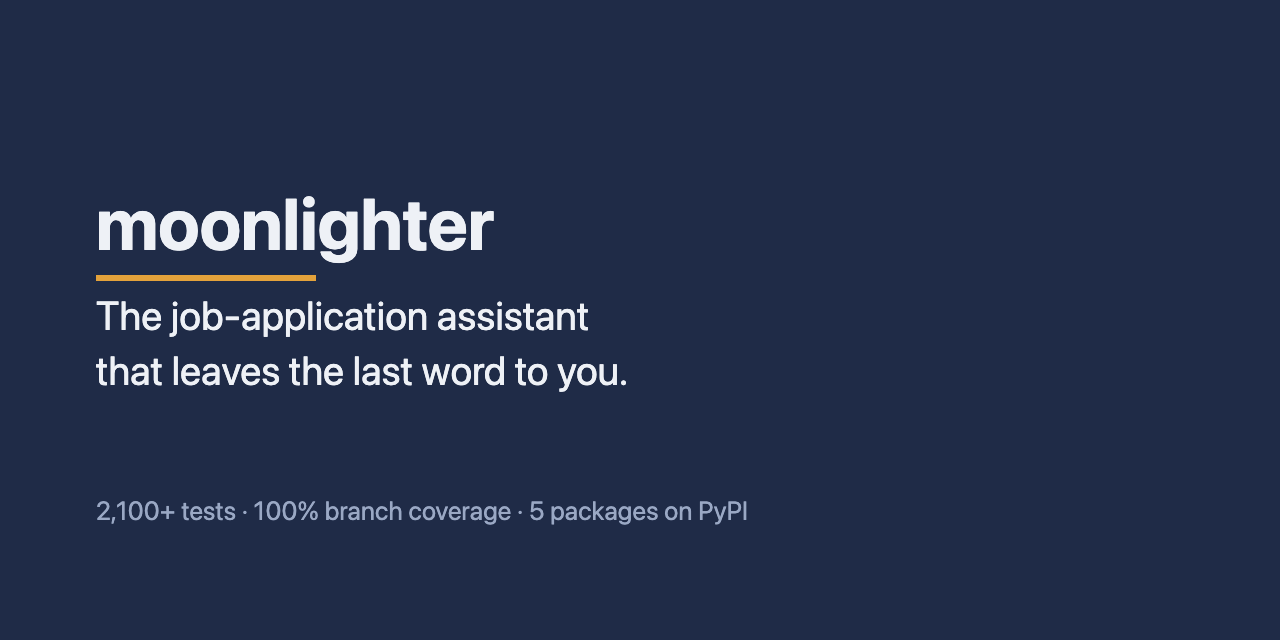
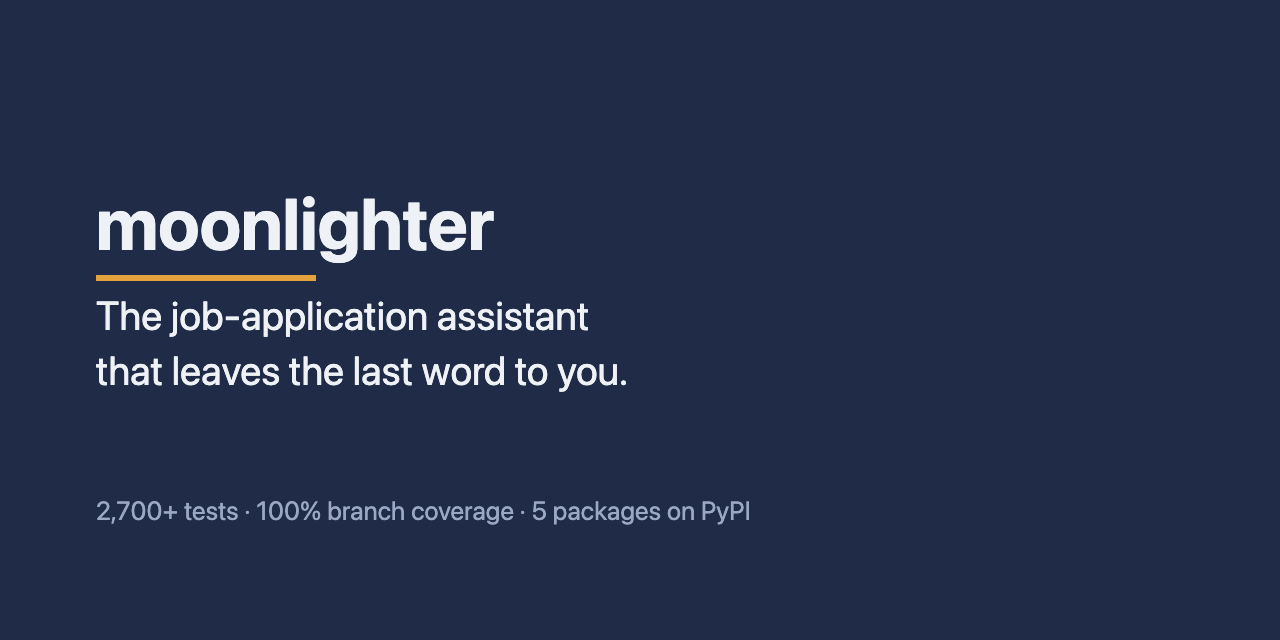
docs: describe the new gates, bump the proof line to 2,700+ tests
CLAUDE.md, CONTRIBUTING.md and both engineering pages name the file-length
and complexity gates, Ruff selecting ALL and every mypy target (twelve
packages plus scripts/). CLAUDE.md also names the real playwright test
directory and makes the peewee sentence true (stubs vendored since 4.1.1,
checked by installing 4.1.0 and 4.1.1; get_or_create is Model's own).
The real count is 2716, so the six fact blocks move from 2,100+ to 2,700+
and social-preview.png is re-rendered from the SVG with headless Chrome
at 1280x640 (it reproduces the committed PNG byte for byte on the old SVG).

Claude-Session: https://claude.ai/code/session_01FTYhxnWRnUkGu6eDAmn1hf

Changed region(s): [[0.0938, 0.7812, 0.5938, 0.8125]]

diff --git a/CLAUDE.md b/CLAUDE.md
@@ -16,10 +16,12 @@ Outside `packages/`: `guide/en|pt` (docs site source) · `scripts/` (CI checks, 
 
 - Full suite: `uv run pytest -q` — the only green that counts; the 100% coverage gate needs the whole tree, so ANY subset run ends in `FAIL Required test coverage of 100% not reached`. That's an artifact of partial runs, not a regression: read the `N passed` line, then run the full suite before claiming green.
 - `tests/performance/` compares timings within one run instead of asserting seconds (concurrent scan vs the same scan one slug at a time, ratio 0.5), and counts SQL queries for the database cases. Until 2026-11-02 it asserted absolute limits that went red at load average ~30 (green at ~5); a ratio survives load, a wall-clock limit does not. Each scanner test also asserts `errors == 0` from `stats`, because a mock the scanner never calls makes every fetch fail quickly and the timing still passes (the Ashby test mocked `post` while the scanner uses GET). If a test there still goes red, check `uptime` first, then re-run once the load drops.
-- After touching the lock: `uv sync --all-packages --all-extras`, the way `ci.yml` does. A plain `uv sync` prunes the `browser` extra, and `tests/core/test_browser.py` then dies with `ModuleNotFoundError: playwright` during collection — an incomplete install, not a regression.
+- After touching the lock: `uv sync --all-packages --all-extras`, the way `ci.yml` does. A plain `uv sync` prunes the `browser` extra, and `tests/core/browser/` (`conftest.py`, `test_connect.py`, `test_close_and_detach.py`) then dies with `ModuleNotFoundError: playwright` during collection — an incomplete install, not a regression.
 - e2e tests are deselected by default (`addopts` carries `-m 'not e2e'`); run them with `uv run pytest -m e2e` — on `main` they need `pdflatex` and the network (live ATS form checks in `tests/application/assisted/test_live_sources.py`; browser e2e live on `feat/ats-automation`). A skipped e2e counts as a FAILURE (`tests/_e2e_guard.py`).
 - Try a tool version before merging its Dependabot PR: `uvx ruff@0.16.3 format --check packages tests`.
-- Lint: `uv run ruff check .` · Format: `uv run ruff format --check .`
+- Lint: `uv run ruff check .` · Format: `uv run ruff format --check .` — Ruff selects ALL (cyclomatic `C901` <= 6 included), so a `# noqa` names its code and a reason (`# noqa: CODE - reason`) and a per-file ignore in `pyproject.toml` carries a one-line reason above it.
+- File length gate: `uv run python scripts/check_file_length.py` — no module over 200 lines (`limit`) and none over 250 (`ceiling`, justified or not). The only exceptions live in `[tool.moonlighter.file-length.justified]`, each with a reason; an entry for a file that is gone or back under the limit fails too. Runs in the CI `test` job right after Ruff.
+- Cognitive complexity gate: `uv run complexipy packages scripts tests --max-complexity-allowed 10` from the repo root (the paths are relative to the cwd) — no function over 10. The limit lives in `[tool.complexipy]` and CI repeats it as the flag, so the two must agree. Same CI step group as the length gate.
 - Types (mirror of ci.yml): `uv run mypy --package moonlighter.core --package moonlighter.discovery --package moonlighter.application --package moonlighter.tracking --package moonlighter.server --package moonlighter.app_context --package moonlighter.mcp_tools --package moonlighter.priority --package moonlighter.startup --package moonlighter.views --package moonlighter._tool_logging --package moonlighter.init` — always `--package`, never file paths (paths duplicate module resolution in namespace packages). `scripts/` is not a package and gets its own line, `uv run mypy scripts/` — `ci.yml` runs both.
 - Docs site: `bash scripts/build_docs.sh` builds `guide/en` + `guide/pt` into `site/` (Zensical, one build per language, then assembled — building both into one `site_dir` wipes a language). Preview one language live: `uv run --group docs zensical serve -f zensical.en.yml`. `--stamp` is CI-only (edits the working copy, refuses a shallow clone).
 - README facts: `uv run pytest -q --junitxml=test-report.xml && uv run python scripts/check_readme_facts.py --junit test-report.xml` — fails when a written number is false or stale by more than 200 tests; update the facts blocks (both READMEs, both site homes, llms.txt) and `assets/site/social-preview.svg` + its PNG together.
@@ -35,7 +37,7 @@ Outside `packages/`: `guide/en|pt` (docs site source) · `scripts/` (CI checks, 
 
 `uv run python -c "from moonlighter.core.db import init_db, Job, Application; init_db(); ..."` — peewee models against the DB under `MOONLIGHTER_HOME` (default `~/.moonlighter`).
 
-Peewee's metaclass-injected attrs (`.id`, `.DoesNotExist`, `.get_or_create`) are declared once on `BaseModel` in `core/db.py`. peewee ships stubs since 4.2, so mypy sees a real class and these stopped being implicit — fix at that shared base, never with per-call-site `type: ignore`.
+Peewee's metaclass-injected attrs (`.id`, `.DoesNotExist`, `.get_or_create`) are declared once on `BaseModel` in `core/db.py`. `get_or_create` is peewee `Model`'s own classmethod (the stubs declare it untyped); `.id` and `.DoesNotExist` are synthesized by its metaclass. peewee has vendored stubs since 4.1.1 (the lock has 4.5.3), so mypy sees a real class and these stopped being implicit — fix at that shared base, never with per-call-site `type: ignore`.
 
 ## Docs
 

diff --git a/guide/pt/engineering.md b/guide/pt/engineering.md
@@ -58,7 +58,8 @@ Um [workspace uv](https://docs.astral.sh/uv/concepts/workspaces/) com 5 namespac
 ## Gates de qualidade
 
 - **Suíte de testes com 100% de cobertura de branches** — o número atual de testes está na [linha de prova do README](https://github.com/albertosca/moonlighter/blob/main/README.pt.md), conferida pelo CI; a cobertura é imposta como gate de CI (`--cov-fail-under=100`), não é número de dashboard.
-- **mypy strict** nos nove módulos `moonlighter.*` (os alvos `--package` do mypy); **ruff** com o ruleset de segurança (`S`) ligado.
+- **mypy strict** em todos os módulos `moonlighter.*` (os alvos `--package` no CI) e em `scripts/`; **ruff** com todas as famílias de regras selecionadas (`select = ["ALL"]`), cada exceção listada no `pyproject.toml` com o seu motivo.
+- **Módulos pequenos, funções simples** — nenhum módulo com mais de 200 linhas sem um motivo registrado, e nenhum com mais de 250; nenhuma função com complexidade cognitiva acima de 10. Os dois são gates de CI, e cada um foi provado reprovando um arquivo propositalmente grande ou emaranhado antes de entrar.
 - **Releases em lockstep** — os cinco pacotes precisam concordar em versão, pins e tag antes de qualquer upload; a checagem roda antes do build, porque upload no PyPI é irreversível.
 - **main protegida** — toda mudança entra por pull request, com o CLA, a suíte de testes e uma auditoria de segurança como checks obrigatórios.
 - **Rascunhado do seu perfil, lacunas sinalizadas** — as respostas são rascunhadas a partir do seu perfil, e o modelo é instruído a responder UNKNOWN quando o seu perfil não lhe dá base; isso volta para você como uma lacuna. Alguns campos são decididos em código, não pelo modelo: um salário cujas unidades não batem com a pretensão configurada, ou uma pergunta de autorização de trabalho cujo país não dá para inferir, sempre volta para você como lacuna. O modelo ainda pode errar uma resposta, e é por isso que você revisa toda folha.

diff --git a/guide/en/engineering.md b/guide/en/engineering.md
@@ -58,7 +58,8 @@ A [uv workspace](https://docs.astral.sh/uv/concepts/workspaces/) of 5 namespace 
 ## Quality gates
 
 - **Test suite with 100% branch coverage** — the current test count is on the [README's proof line](https://github.com/albertosca/moonlighter#readme), checked by CI; coverage is enforced as a CI gate (`--cov-fail-under=100`), not a dashboard number.
-- **mypy strict** across all nine `moonlighter.*` modules (the mypy `--package` targets); **ruff** with the security (`S`) ruleset on.
+- **mypy strict** across every `moonlighter.*` module (the `--package` targets in CI) and `scripts/`; **ruff** with every rule family selected (`select = ["ALL"]`), each exception listed in `pyproject.toml` with its reason.
+- **Small modules, simple functions** — no module over 200 lines without a recorded reason, and none over 250; no function over cognitive complexity 10. Both are CI gates, and each was proven to fail on a deliberately oversized or tangled file before it went on.
 - **Lockstep releases** — the five packages must agree on version, pins and tag before anything uploads; the check runs before the build, because PyPI uploads are irreversible.
 - **Protected main** — every change lands by pull request, with the CLA, the test suite and a security audit as required checks.
 - **Drafted from your profile, gaps flagged** — answers are drafted from your profile, and the model is told to answer UNKNOWN when your profile gives it no basis; that comes back to you as a gap. Some fields are decided in code, not by the model: a salary whose units disagree with your configured target, or a work-authorization question whose country can't be inferred, is always returned to you as a gap. The model can still get an answer wrong, which is why you review every sheet.

diff --git a/README.pt.md b/README.pt.md
@@ -8,7 +8,7 @@ Escaneia os portais de vagas que você escolhe, dá uma nota a cada vaga compara
 
 Feito por Alberto Cavalcanti · [Fale comigo no LinkedIn](https://www.linkedin.com/in/albertosca/) · [Leia a documentação](https://albertosca.github.io/moonlighter/pt/) · [Instale](https://albertosca.github.io/moonlighter/pt/getting-started/install/)
 
-<!-- facts -->2.100+ testes · 100% de cobertura de branches (gate no CI) · 5 pacotes no PyPI · mypy strict<!-- /facts -->
+<!-- facts -->2.700+ testes · 100% de cobertura de branches (gate no CI) · 5 pacotes no PyPI · mypy strict<!-- /facts -->
 
 [![PyPI](https://img.shields.io/pypi/v/moonlighter)](https://pypi.org/project/moonlighter/) [![Python](https://img.shields.io/badge/python-3.14%2B-blue)](https://pypi.org/project/moonlighter/) [![CI](https://github.com/albertosca/moonlighter/actions/workflows/ci.yml/badge.svg)](https://github.com/albertosca/moonlighter/actions/workflows/ci.yml) [![License: AGPL-3.0](https://img.shields.io/badge/license-AGPL--3.0-blue)](LICENSE) [![Lint: ruff](https://img.shields.io/badge/lint-ruff-261230)](https://github.com/albertosca/moonlighter/actions/workflows/ci.yml) [![Coverage: 100%](https://img.shields.io/badge/coverage-100%25-brightgreen)](https://github.com/albertosca/moonlighter/actions/workflows/ci.yml)
 

diff --git a/README.md b/README.md
@@ -8,7 +8,7 @@ Scans the job boards you choose, scores each posting against your profile, and d
 
 Built by Alberto Cavalcanti · [Connect on LinkedIn](https://www.linkedin.com/in/albertosca/) · [Read the docs](https://albertosca.github.io/moonlighter/) · [Install](https://albertosca.github.io/moonlighter/getting-started/install/)
 
-<!-- facts -->2,100+ tests · 100% branch coverage (CI-gated) · 5 packages on PyPI · mypy strict<!-- /facts -->
+<!-- facts -->2,700+ tests · 100% branch coverage (CI-gated) · 5 packages on PyPI · mypy strict<!-- /facts -->
 
 [![PyPI](https://img.shields.io/pypi/v/moonlighter)](https://pypi.org/project/moonlighter/) [![Python](https://img.shields.io/badge/python-3.14%2B-blue)](https://pypi.org/project/moonlighter/) [![CI](https://github.com/albertosca/moonlighter/actions/workflows/ci.yml/badge.svg)](https://github.com/albertosca/moonlighter/actions/workflows/ci.yml) [![License: AGPL-3.0](https://img.shields.io/badge/license-AGPL--3.0-blue)](LICENSE) [![Lint: ruff](https://img.shields.io/badge/lint-ruff-261230)](https://github.com/albertosca/moonlighter/actions/workflows/ci.yml) [![Coverage: 100%](https://img.shields.io/badge/coverage-100%25-brightgreen)](https://github.com/albertosca/moonlighter/actions/workflows/ci.yml)
 

diff --git a/CONTRIBUTING.md b/CONTRIBUTING.md
@@ -24,11 +24,13 @@ uv sync --all-packages
 
 ## Quality bar
 
-Every change must pass all three before review:
+Every change must pass every check below before review:
 
 ```bash
 uv run pytest                    # 100% branch coverage is enforced
 uv run ruff check . && uv run ruff format --check .
+uv run python scripts/check_file_length.py                         # no module over 200 lines
+uv run complexipy packages scripts tests --max-complexity-allowed 10   # no function over 10
 uv run mypy \
   --package moonlighter.core \
   --package moonlighter.discovery \
@@ -42,6 +44,7 @@ uv run mypy \
   --package moonlighter.views \
   --package moonlighter._tool_logging \
   --package moonlighter.init
+uv run mypy scripts/
 ```
 
 Tests are written first. Coverage is gated at 100% — use `# pragma: no cover` only for

diff --git a/guide/pt/index.md b/guide/pt/index.md
@@ -6,7 +6,7 @@
 
 Escaneia os portais de vagas que você escolhe, dá uma nota a cada vaga comparando com o seu perfil e rascunha uma folha de respostas completa a partir dos seus próprios dados, sinalizando o que não consegue responder.
 
-<!-- facts -->2.100+ testes · 100% de cobertura de branches (gate no CI) · 5 pacotes no PyPI · mypy strict<!-- /facts -->
+<!-- facts -->2.700+ testes · 100% de cobertura de branches (gate no CI) · 5 pacotes no PyPI · mypy strict<!-- /facts -->
 
 **[Comece aqui →](getting-started/install.md)**
 

diff --git a/guide/en/index.md b/guide/en/index.md
@@ -6,7 +6,7 @@
 
 Scans the job boards you choose, scores each posting against your profile, and drafts a complete answer sheet from your own data, flagging what it can't answer.
 
-<!-- facts -->2,100+ tests · 100% branch coverage (CI-gated) · 5 packages on PyPI · mypy strict<!-- /facts -->
+<!-- facts -->2,700+ tests · 100% branch coverage (CI-gated) · 5 packages on PyPI · mypy strict<!-- /facts -->
 
 **[Get started →](getting-started/install.md)**
 
